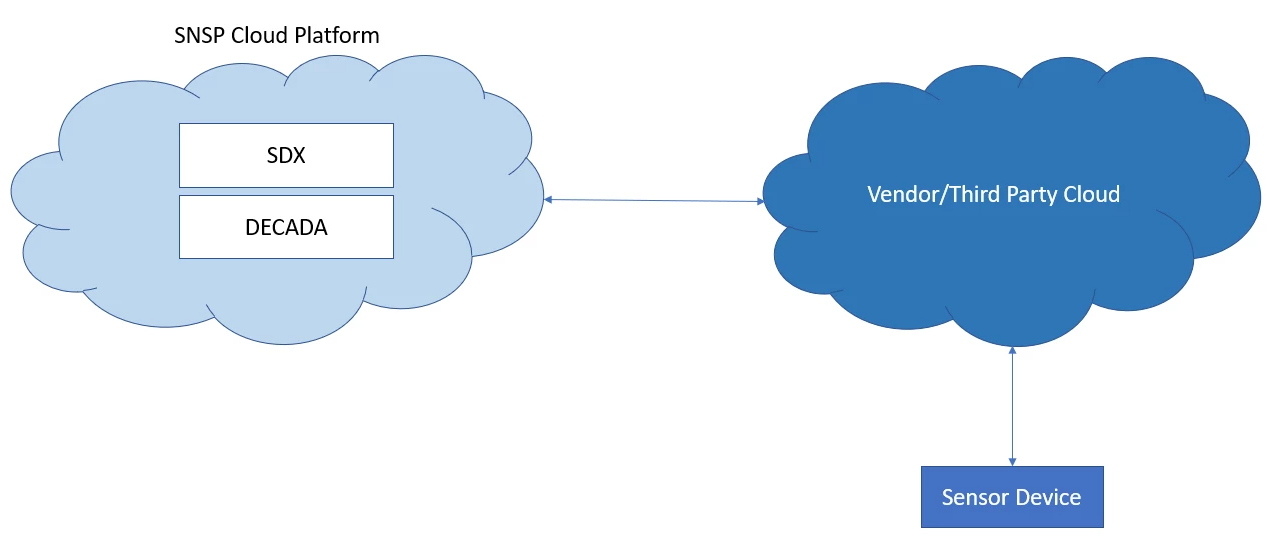
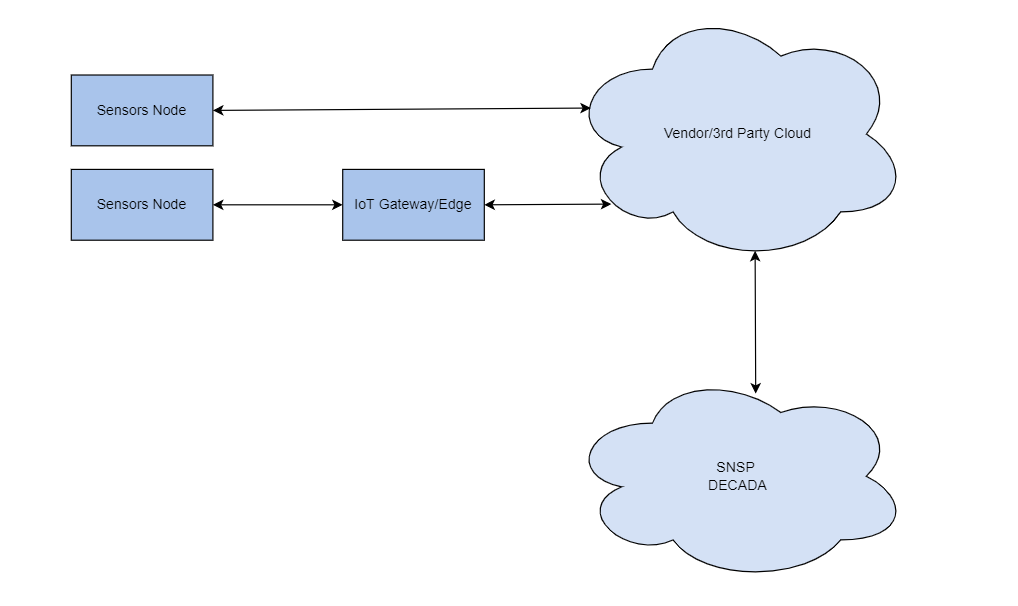
Changes to include DECADA Environment Information Upon Connection

diff --git a/docs/OnBoardDevice/IntegrationWithDecada.md b/docs/OnBoardDevice/IntegrationWithDecada.md
@@ -59,7 +59,7 @@ Agencies can use the following flow chart to the determine which mode of connect
 </div>
 
 
-**Using Device SDK**
+**<u>Using Device SDK</u>**
 
 Direct connection can be made via the use of GovTech provided SDKs which are available in
 Java, Python 2/3 and C/C++. The device SDKs encapsulate protocols for data transmission and provide features such as device registration, device data ingestion and device control.
@@ -72,23 +72,46 @@ This option is applicable only for sensors with the capability for direct access
   - Connected devices are registered, and devices are burned with the **same** product information (product key and product secret key) in batch. Agencies to call the REST API to register the devices in batch and once they are connected to the network they will be automatically connect to the cloud.
 
 
-**Non-SDK Methods**
+**<u>Non-SDK Methods</u>**
 
-If the device SDKs provided by GovTech cannot meet Agencies’s requirements, Agencies can choose to send telemetries based on DECADA's device protocol standards. The supported protocols are as follows:
+If the device SDKs provided by GovTech cannot meet Agencies’s requirements, Agencies can choose to send telemetries based on DECADA's device protocol standards.
 
-  - <u>MQTT Based Protocol:</u>
-  Device Protocol for MQTT defines the data format of the MQTT-based transmission between devices and DECADA.
-    Agencies need to ensure that the MQTT clients running on their devices support minimally MQTT v3.1.1, secret-based one-way authentication for unclassified data and certificate-based two-way authentication for restricted data.
-Details of implementation can be found [here](https://support.envisioniot.com/docs/device-connection/en/latest/learn/connection_protocols/enos_mqtt).
+**Type of Protocols**
 
-  - <u>CoAP Based Protocol:</u>
-    The Constrained Application Protocol is a protocol designed for use in low-power embedded environments. DECADA exposes a set of APIs which can be accessed via CoAP and devices can connect into the DECADA cloud platform as long as the data format conforms to the standard.
-Details of implementation can be found [here](https://support.envisioniot.com/docs/device-connection/en/latest/learn/connection_protocols/enos_coap).
+The supported protocols are as follows:
 
-   - <u>RESTful API via HTTPS:</u>
-     Used commonly in the Web Technology world, connection with DECADA can be performed through a comprehensive set of RESTful APIs which can be easily accessed via HTTPS. Details of implementation can be found [here](https://support.envisioniot.com/docs/device-connection/en/latest/learn/connection_protocols/enos_http).
+1. RESTful API via HTTPS
+    - Used commonly in the Web Technology world, connection with DECADA can be performed through a comprehensive set of RESTful APIs which can be easily accessed via HTTPS.
+    - Details of implementation can be found [here](https://support.envisioniot.com/docs/device-connection/en/latest/learn/connection_protocols/enos_http)
 
-     Flow Chart for the selection of protocols
+2. MQTT Based Protocol
+    - Device Protocol for MQTT defines the data format of the MQTT-based transmission between devices and DECADA.
+    - Agencies need to ensure that the MQTT clients running on their devices support minimally MQTT v3.1.1, secret-based one-way authentication for unclassified data and certificate-based two-way authentication for restricted data.
+    - Details of implementation can be found [here](https://support.envisioniot.com/docs/device-connection/en/latest/learn/connection_protocols/enos_mqtt).
+
+3. CoAP Based Protocol
+    - The Constrained Application Protocol is a protocol designed for use in low-power embedded environments. DECADA exposes a set of APIs which can be accessed via CoAP and devices can connect into the DECADA cloud platform as long as the data format conforms to the standard.
+    - Details of implementation can be found [here](https://support.envisioniot.com/docs/device-connection/en/latest/learn/connection_protocols/enos_coap).
+
+ **Environment Information**
+
+Depending on the protocol used, Agencies will need to set the following parameters (address & ports) for their devices to communicate with DECADA:
+
+1. Via HTTP
+    - Address: iot-http-integration.decada.gov.sg
+    - Agencies may refer [here](https://support.envisioniot.com/docs/device-connection/en/latest/reference/http_online/index?msclkid=a1288c2ac08611eca235036ddbd6984f) for more information where its data is transmitted though the HTTP integration channel of the DECADA cloud.
+
+2. Via MQTT
+    - Address: mqtt.decada.gov.sg
+    - Ports: 11883 (TCP), 18885 (SSL TCP)
+    - Agencies may refer [here](https://support.envisioniot.com/docs/device-connection/en/latest/learn/connection_protocols/enos_mqtt) for more information about the connections though MQTT
+        
+3. Via CoAP
+    - Address: coap.decada.gov.sg
+    - Ports: 5683 (UDP), 5684 (UDP)
+    - Agencies may refer [here](https://support.envisioniot.com/docs/device-connection/en/latest/learn/connection_protocols/enos_coap) for more information about the connections though CoAP
+
+**<u>Flow Chart for Selection of Protocols</u>**
 
 Agencies to use the following flow chart to determine which protocol the sensors should use to connect to DECADA:
 

diff --git a/docs/OnBoardingApplication/3rdPartyApplication.md b/docs/OnBoardingApplication/3rdPartyApplication.md
@@ -39,7 +39,24 @@ Data can be ingested via the following protocol:
 
 1. HTTPS (via RESTFUL or Data Subscription Service)
 2. MQTT (via Data Subscription Service)
-3. TCP-Based Protocols (via Data Subscription Service)
+3. CoAP
+4. TCP-Based Protocols (via Data Subscription Service)
+
+Depending on the protocol used, Agencies will need to set the following parameters (address & ports) for their 3rd Party application to communicate with DECADA:
+
+- Via HTTP
+	- Address: iot-http-integration.decada.gov.sg
+	- Agencies may refer [here](https://support.envisioniot.com/docs/device-connection/en/latest/reference/http_online/index?msclkid=a1288c2ac08611eca235036ddbd6984f) for more information where its data is transmitted though the HTTP integration channel of the DECADA cloud.
+
+- Via MQTT
+	- Address: mqtt.decada.gov.sg
+	- Ports: 11883 (TCP), 18885 (SSL TCP)
+	- Agencies may refer [here](https://support.envisioniot.com/docs/device-connection/en/latest/learn/connection_protocols/enos_mqtt) for more information about the connections though MQTT
+
+- Via CoAP
+	- Address: coap.decada.gov.sg
+	- Ports: 5683 (UDP), 5684 (UDP)
+	- Agencies may refer [here](https://support.envisioniot.com/docs/device-connection/en/latest/learn/connection_protocols/enos_coap) for more information about the connections though CoAP.
 
 !> Agencies are advised to contact GovTech if they require further customization on the protocol to ingest data to their application. 
 
@@ -53,21 +70,29 @@ For data to be ingested from DECADA to 3rd Party applications, Agencies can cons
 
 The DECADA Data Subscription Service utilize the Kafka Pipeline to improves the API calling efficiency of applications with active data push, which supports subscription to various data types such as real-time asset data, asset alert data, and event data. Applications do not need to call APIs repeatedly and frequently to get the asset data. Instead the subscribed data will be pushed automatically and applications can consume the pushed data as needed. 
 
-Agencies can use the provided SDKs to retrieve the subscribed data:
+Agencies may refer [here](https://www.envisioniot.com/docs/data-subscription/en/latest/data_subscription_overview.html) for more information.
+
+Below are the existing SDKs Agencies can leverage on to utilize to retrieve the subscribed data:
 
 1. [Java SDK](https://mvnrepository.com/artifact/com.envisioniot/enos-subscribe)
 2. [Python SDK](https://github.com/EnvisionIot/enos-subscription-service-sdk-python)
+3. .NET SDK
 
 <div align=center>
 <img src="./images/onBoardingApplication/dataSubscriptionServicePortal.png"/>
 </div>
 
-Agencies may refer [here](https://www.envisioniot.com/docs/data-subscription/en/latest/data_subscription_overview.html) for more information.
+Agencies may refer [here](https://support-cn5.envisioniot.com/docs/data-subscription/en/2.2.0/consuming_subscribed_data.html) for more information.
+
+?> Agencies will have to set the following parameters to get the real-time data pushed subscribed data:\
+ \
+ Address: subscription.decada.gov.sg\
+ Ports: 9001 (TCP)
 
 **<u>Use-Case</u>**
 
 Agencies can learn how to quickly connect a typical IoT devices DECADA and start sending data to another system real-time:
 
-- [Subscribing to Device Real-Time Data and Alert Records](https://www.envisioniot.com/docs/enos-tutorials/en/latest/subscribing_to_device_data/index.html)
+- [Subscribing to Device Real-Time Data and Alert Records](https://www.envisioniot.com/docs/data-subscription/en/latest/gettingstarted_subscribe_realtime.html)
 
 ?> Agencies will have to ensure that the protocol has to be TCP based

diff --git a/docs/OnBoardDevice/Certificate.md b/docs/OnBoardDevice/Certificate.md
@@ -77,6 +77,12 @@ The device SDK can be used to encapsulate the messaging interfaces for generatin
 
 To authenticate the devices to DECADA via certificate-basis, Agencies will need to have an account and access to the Device Management. If Agencies do not have the access, please contact GovTech for the creation of account with the necessary functionality access.
 
+**<u>Environment Information</u>**
+
+A certificate will be generated for the on-boarded devices after it is registered (with authentication mode set to X.509 authentication). Agencies will need to set the following parameters to download the certificate from DECADA:
+
+- Address: portal.decada.gov.sg/enos/CA/cacert
+
 **<u>Via DECADA Management Portal</u>**
 
 Once the certificate has been installed on the devices, Agencies can utilize the management portal to manage the lifecycle of the installed certificate.

diff --git a/docs/SDKAPI/API.md b/docs/SDKAPI/API.md
@@ -4,6 +4,10 @@
 
 DECADA provide REST APIs where Agencies can access resources within DECADA system to develop various applications.
 
+Agencies will need to set the following parameters of the DECADA API Gateway in their codes for the intended resources to communicate with DECADA. The API Gateway is the unified entry for all API requests, through which resources can be created, retrieved, updated, deleted, etc.
+
+- Address: http://ag.decada.gov.sg/
+
 Below are some API Services DECADA provides:
 
 **Functionality**|**Purpose**|**API Calls**
